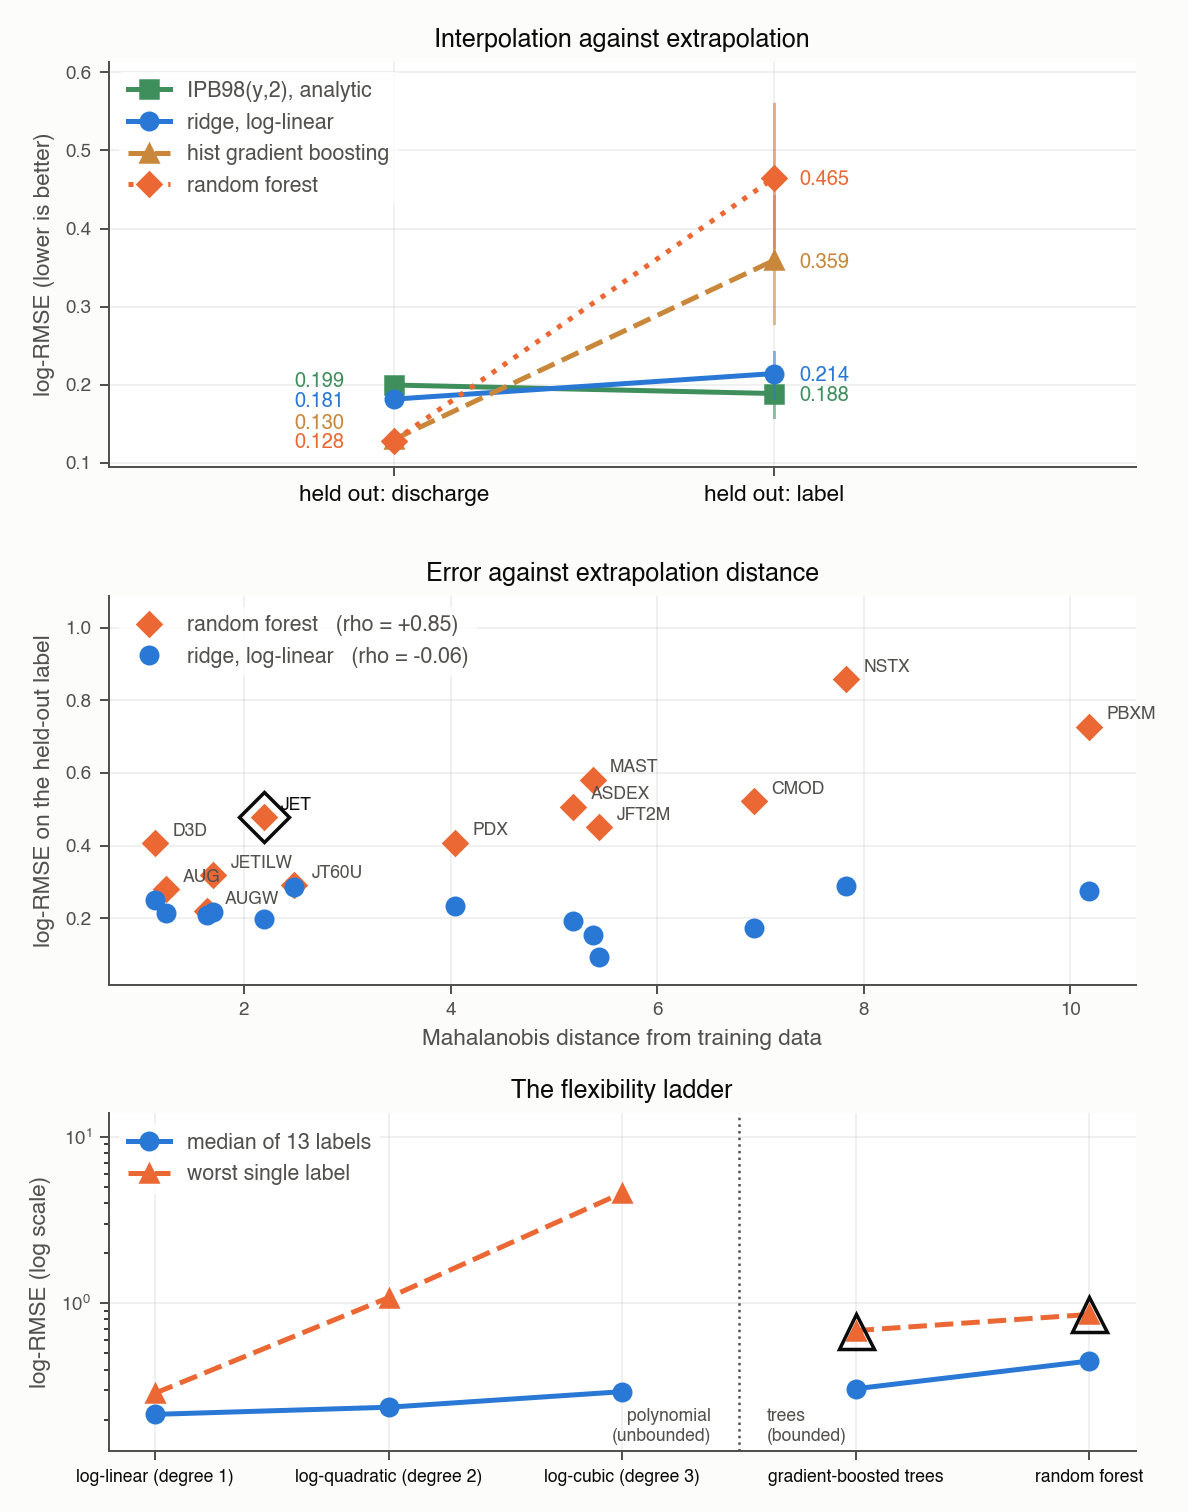
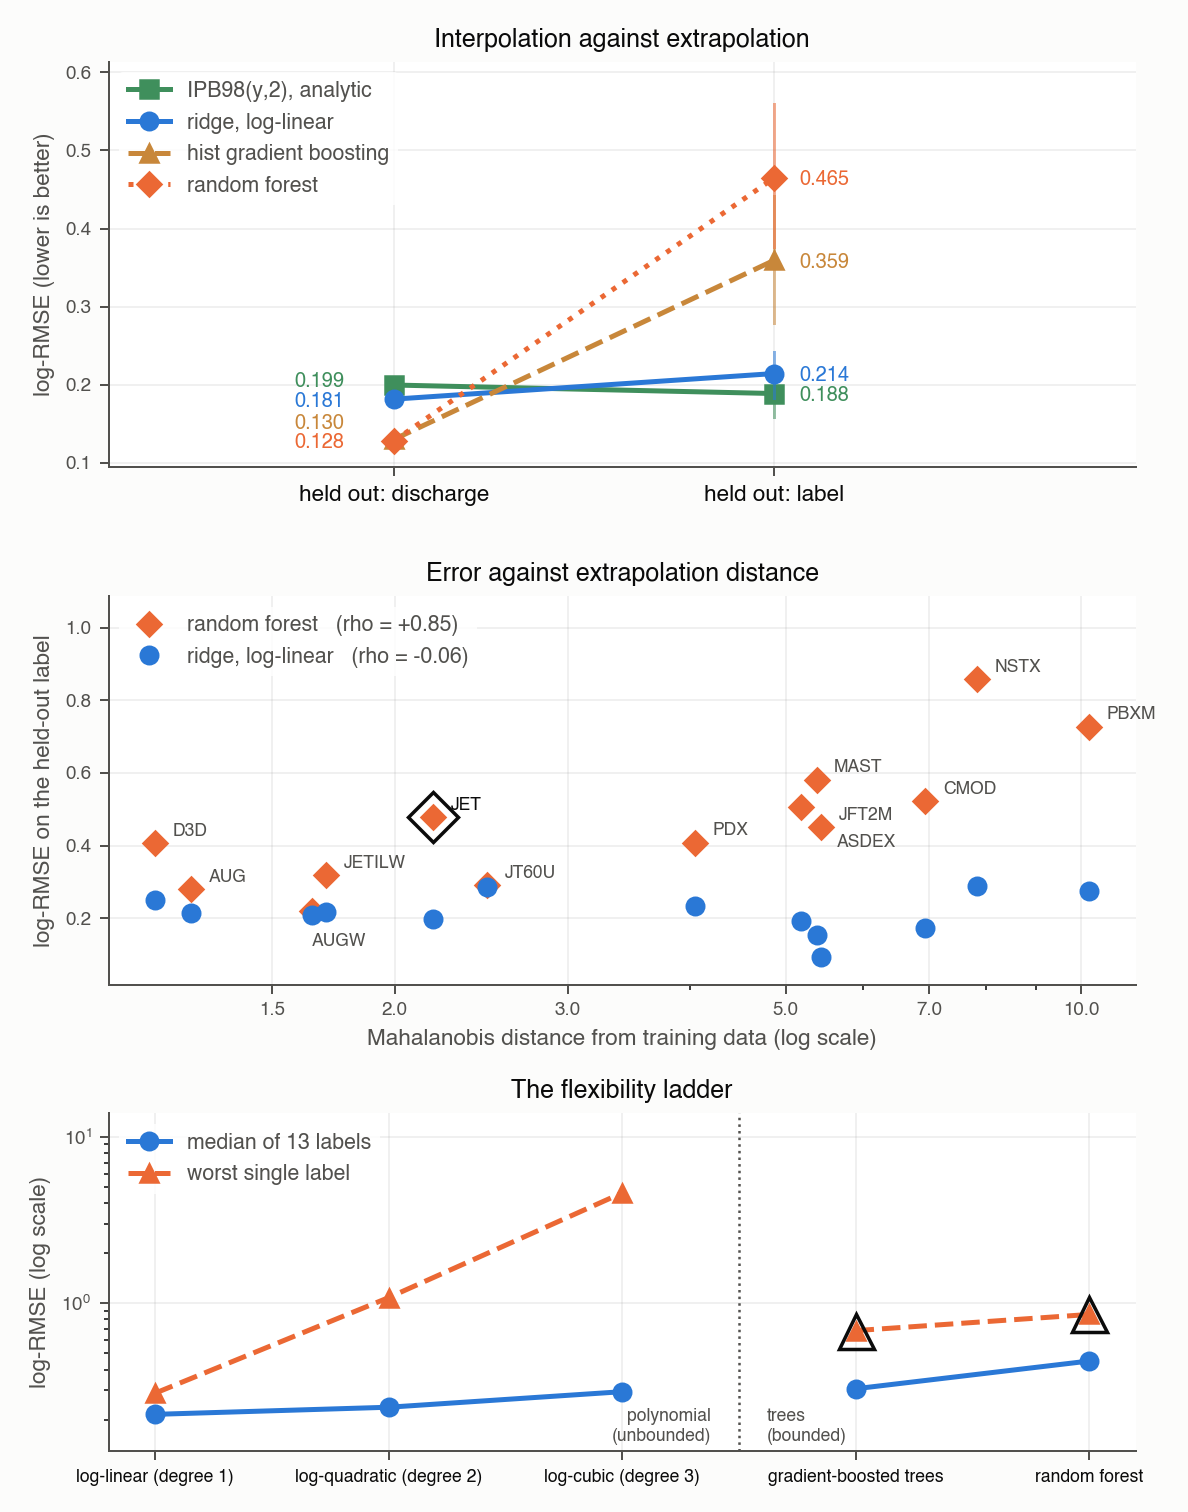
Spread the distance panel so its labels stop printing over the markers
"AUG" printed across JET-ILW's marker in the middle panel of Figure 1. The
cause was layout, not placement: six of the thirteen machines sit between
distance 1.1 and 2.5 while the furthest is at 10.2, so on a linear axis half
the sample occupied a fifth of the panel, twelve markers and six labels
competed for that patch, and the placement search had no free candidate
anywhere in it. Its documented fallback is the least-bad candidate, which
overlaps. No offset table fixes that: moving "AUG" far enough left puts it
outside the axes.

The distance axis is now logarithmic, which spreads the cluster across half the
panel without dropping a label or hiding a point. Every correlation quoted on
this panel is a rank statistic, so none of them moves. The scale is set before
the labels are placed, because the search measures candidate boxes through
transData and would otherwise solve the linear geometry and draw the log one.

Two repairs to the placement helper come with it, neither of which changes this
figure. It counted the marker of the point being labelled as an obstacle, which
put a floor of one under every candidate and made the zero-cost early exit the
docstring promises unreachable; that marker is now excluded, and every other
marker still counts. The candidate ladder gains three wider rings for clusters
the near offsets cannot clear.

diff --git a/analysis_extrapolation.py b/analysis_extrapolation.py
@@ -23,12 +23,14 @@ The narrative built on these numbers is in ``results/RESULTS.md``.
 
 from __future__ import annotations
 
+import math
 from dataclasses import dataclass, field
 from pathlib import Path
 from typing import TYPE_CHECKING, Any
 
 import numpy as np
 import pandas as pd
+from matplotlib.ticker import NullFormatter, ScalarFormatter
 
 import hdb5
 from figures import (
@@ -574,17 +576,45 @@ def _place_labels_without_overlap(
         artist.remove()
         return window.expanded(1.06, 1.14)
 
-    # Right first, so the uncrowded majority keeps the placement it had.
+    # Right first, so the uncrowded majority keeps the placement it had. The
+    # near ladder is tried before the wide one for the same reason.
+    #
+    # These twelve alone were not enough. Six labels and twelve markers compete
+    # for the patch between distance 1.1 and 2.5, where D3D, AUG, AUGW, JETILW,
+    # JET and JT60U sit; every candidate collided there, the least-bad fallback
+    # fired, and AUG printed across a marker. The rings below extend the search
+    # rather than let that fallback stand. They are generated in a fixed order
+    # from fixed constants, so the placement stays deterministic and the
+    # reproduction check can still compare figures.
     candidates = [
         (7, 3), (-7, 3), (7, -10), (-7, -10), (0, 10), (0, -14),
         (14, 9), (-14, 9), (14, -16), (-14, -16), (0, 18), (0, -22),
     ]
-    marker_radius = 7.0
+    for radius in (22.0, 30.0, 39.0):
+        for degrees in (0, -30, 30, -60, 60, 90, -90, 150, -150, 180, 120, -120):
+            angle = math.radians(float(degrees))
+            candidates.append(
+                (round(radius * math.cos(angle), 2), round(radius * math.sin(angle), 2))
+            )
+    marker_radius = 8.0
     obstacle_display = [to_display(o) for o in obstacles]
     placed: list[Any] = []
     chosen: dict[str, tuple[float, float]] = {}
 
     for x, y, text in points:
+        # The point being labelled is in `obstacles` too, and a label a few
+        # points from its own marker always overlaps it. Counting that put a
+        # floor of one under every candidate, so the zero-cost early exit below
+        # never fired and every label kept the first candidate: the search ran
+        # but decided nothing, and the cluster near the origin overlapped. Its
+        # own marker is dropped here; every other marker still counts, which is
+        # what the comment at the call site asks for.
+        anchor = to_display((x, y))
+        others = [
+            (ox, oy)
+            for ox, oy in obstacle_display
+            if abs(ox - anchor[0]) > 0.5 or abs(oy - anchor[1]) > 0.5
+        ]
         best, best_cost = candidates[0], None
         for offset in candidates:
             box = _box((x, y), offset, text)
@@ -593,7 +623,7 @@ def _place_labels_without_overlap(
             cx, cy = box.x0 + half_w, box.y0 + half_h
             cost += sum(
                 1
-                for ox, oy in obstacle_display
+                for ox, oy in others
                 if abs(cx - ox) < half_w + marker_radius
                 and abs(cy - oy) < half_h + marker_radius
             )
@@ -759,6 +789,22 @@ def plot_extrapolation(analysis: ExtrapolationAnalysis) -> Path | None:
             markersize=7,
             label=f"{label}   (rho = {rho:+.2f})",
         )
+    # Log distance, set before the labels are placed because the placement
+    # search measures candidate boxes through transData and would otherwise
+    # solve the linear geometry and draw the log one.
+    #
+    # Six of the thirteen machines sit between distance 1.1 and 2.5 and the
+    # furthest is at 10.2, so on a linear axis half the sample is compressed
+    # into a fifth of the panel: twelve markers and six labels compete for that
+    # patch, the placement search has no free candidate anywhere in it, and its
+    # least-bad fallback printed AUG across JET-ILW's marker. Log spreads the
+    # cluster without dropping a label or hiding a point. The correlations in
+    # the legend are rank statistics, so none of them moves.
+    axes[1].set_xscale("log")
+    axes[1].set_xticks([1.0, 1.5, 2.0, 3.0, 5.0, 7.0, 10.0])
+    axes[1].xaxis.set_major_formatter(ScalarFormatter())
+    axes[1].xaxis.set_minor_formatter(NullFormatter())
+
     truncated = {finding.tokamak for finding in analysis.truncation}
     forest_rows = per_machine[per_machine["model_name"] == "random_forest"]
 
@@ -812,7 +858,7 @@ def plot_extrapolation(analysis: ExtrapolationAnalysis) -> Path | None:
     # Open a band under the data for the caption rather than printing over points.
     axes[1].set_ylim(lowest - 0.10 * (highest - lowest), highest + 0.30 * (highest - lowest))
     axes[1].set_xlabel(
-        "Mahalanobis distance from training data",
+        "Mahalanobis distance from training data (log scale)",
         fontsize=FONT_LABEL,
         color=muted,
     )
